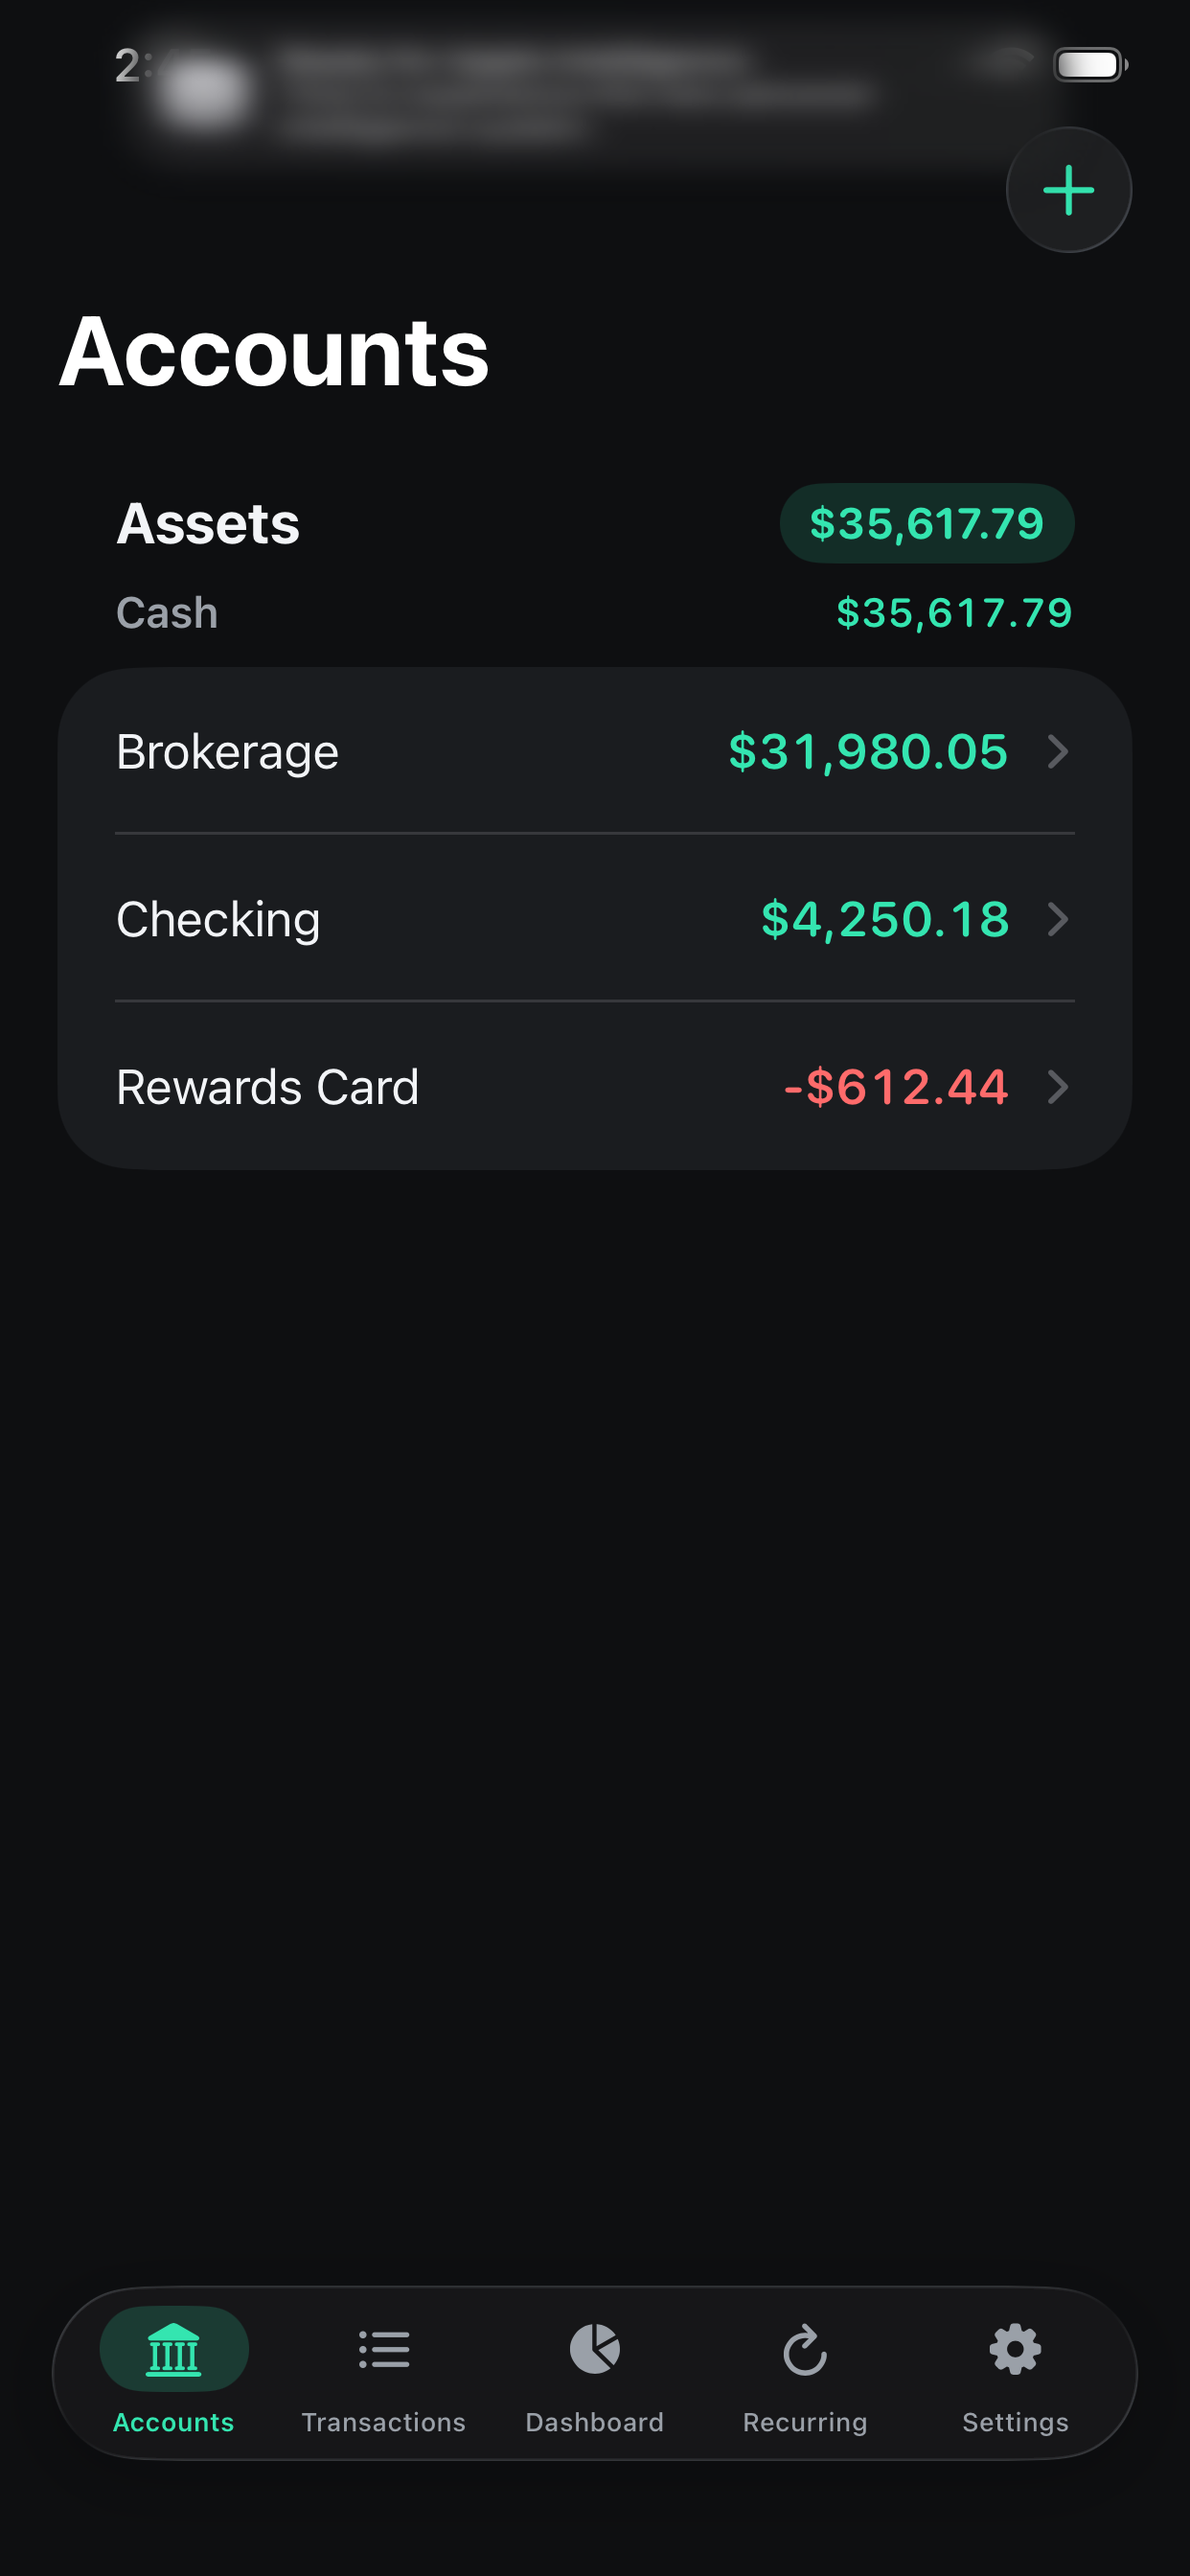
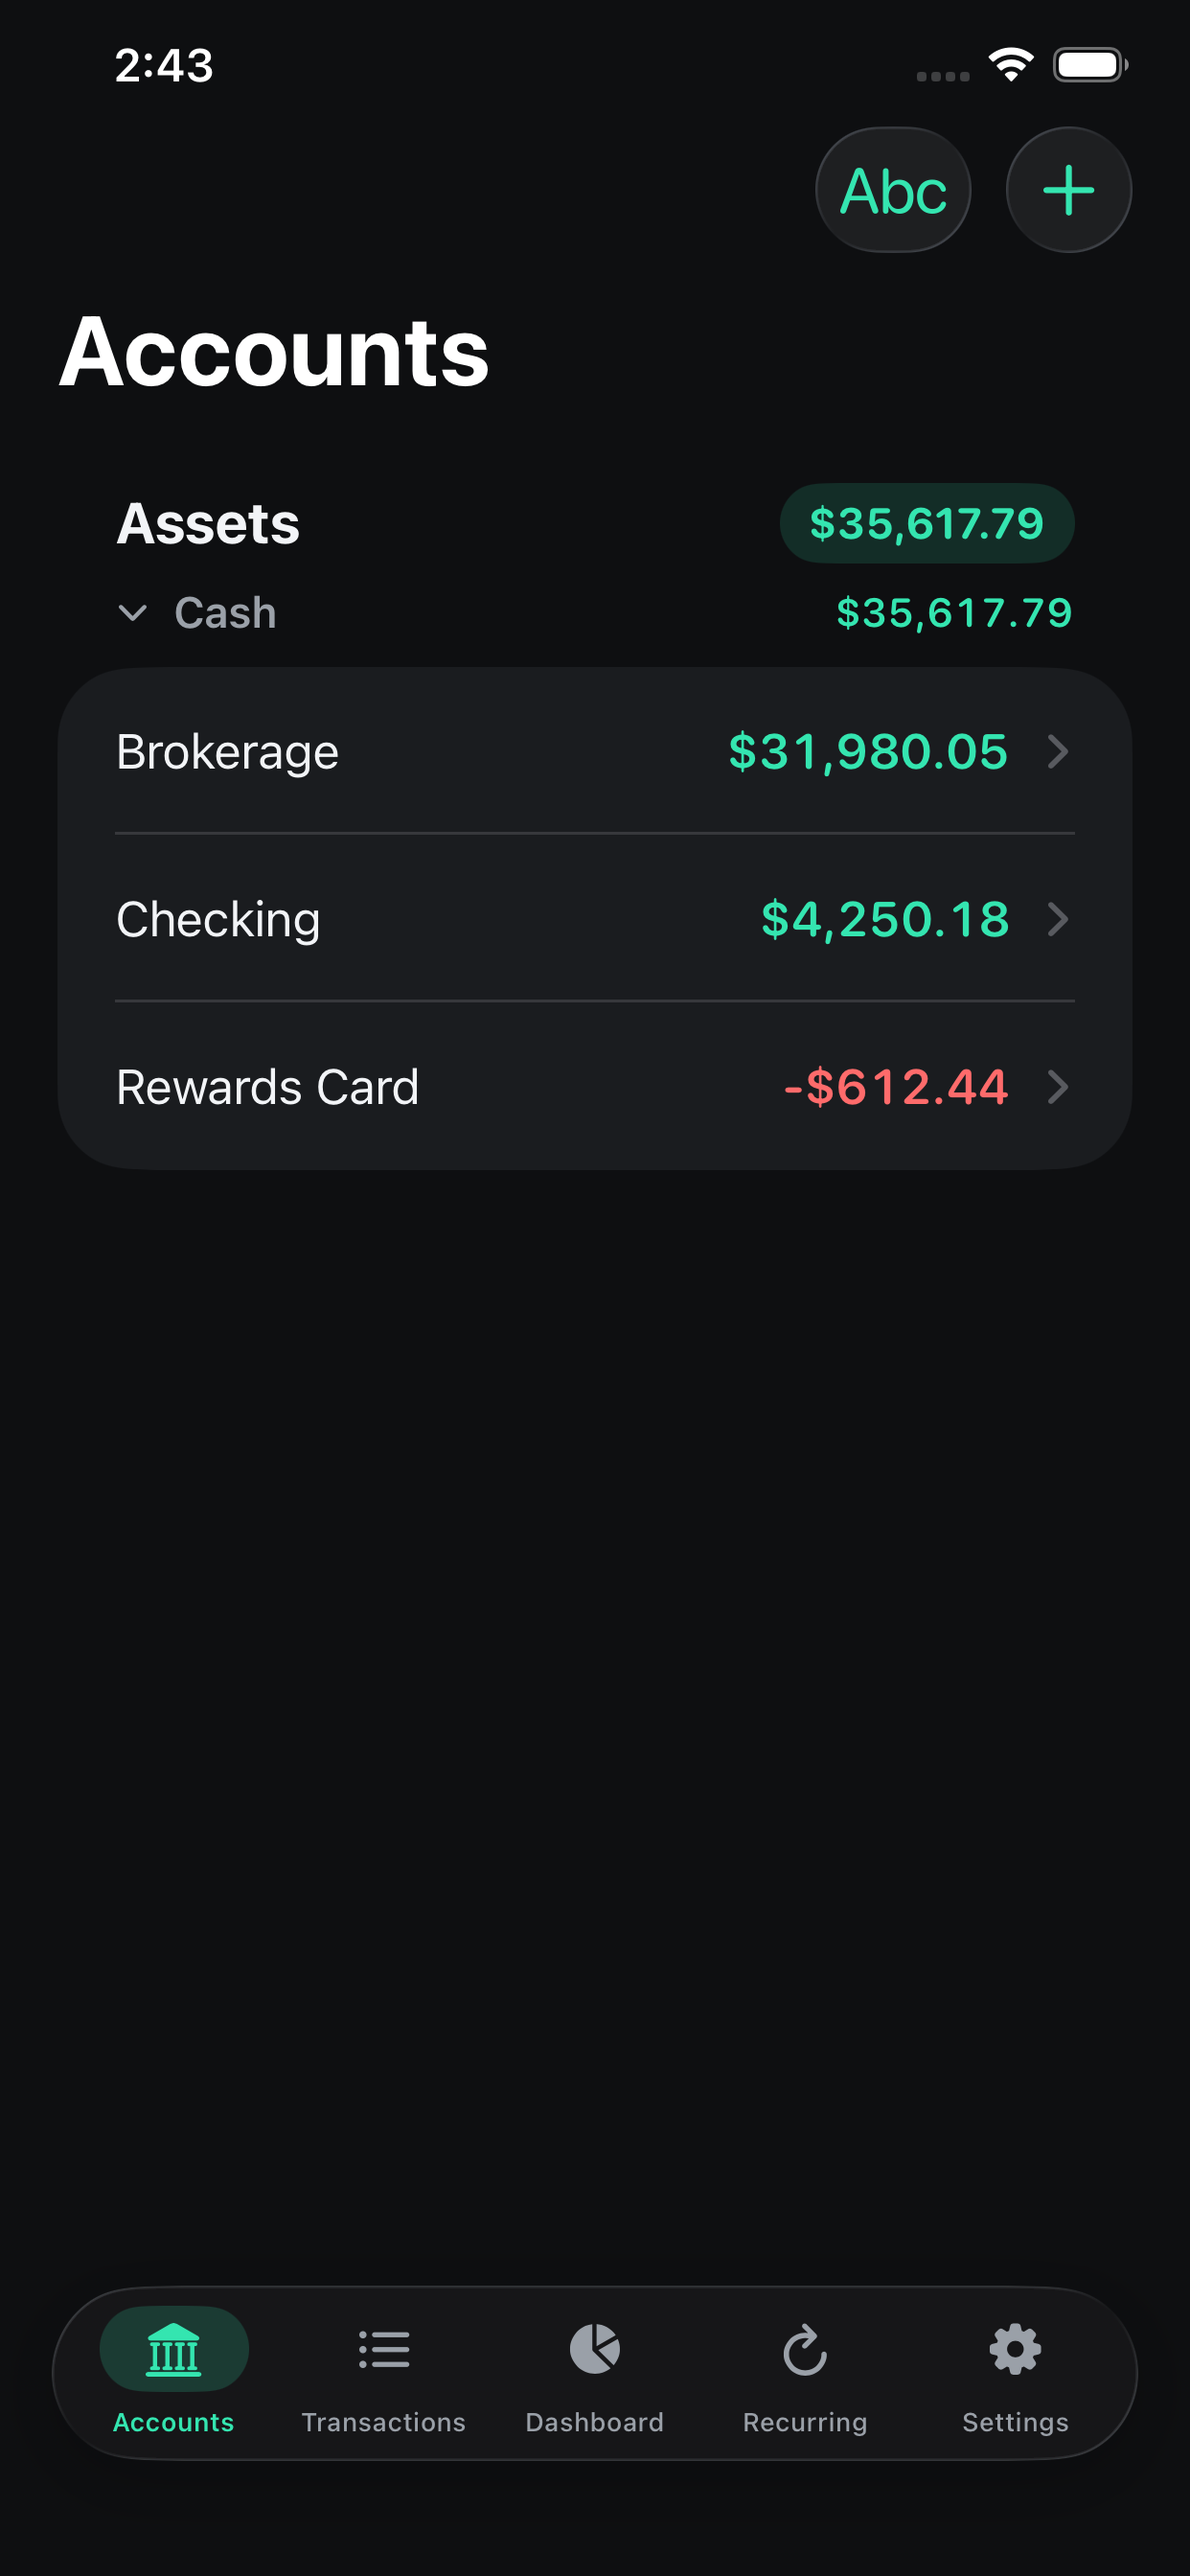
feat(ui): collapsible account groups, sort toggle, calendar day restyle
- Accounts: type groups (Cash, Investments, ...) collapse/expand via
  header tap with rotating chevron; subtotal stays visible collapsed.
- Accounts: toolbar toggle sorts accounts alphabetically or by amount
  (highest first), persisted via AppStorage; own glass pill on iOS 26.
- Recurring: selected day uses soft brand fill (matches Dashboard Auto
  chip); today keeps its ring, visible even when selected.
- Refresh App Store screenshots (dark + light).

Changed region(s): [[0.0918, 0.0, 0.7955, 0.0938], [0.0918, 0.2188, 0.2448, 0.25], [0.7955, 0.0, 0.9179, 0.0312]]

diff --git a/Sources/FinApp/Features/Accounts/AccountsView.swift b/Sources/FinApp/Features/Accounts/AccountsView.swift
@@ -8,6 +8,10 @@ struct AccountsView: View {
     @State private var path = NavigationPath()
     /// Bumped on tab arrival to rebuild the List at the very top.
     @State private var topReset = 0
+    /// Type groups the user has collapsed; empty = all expanded (default).
+    @State private var collapsedTypes: Set<AccountType> = []
+    /// Sort accounts within each type group by amount (highest first) instead of name.
+    @AppStorage("accountsSortByAmount") private var sortByAmount = false
 
     /// Accounts of one type, kept together as a subsection.
     private struct TypeGroup: Identifiable {
@@ -21,7 +25,9 @@ struct AccountsView: View {
         Dictionary(grouping: accounts.filter { $0.accountType.isDebt == debt }, by: \.accountType)
             .map { type, accts in
                 TypeGroup(type: type, accounts: accts.sorted {
-                    $0.displayName.localizedCaseInsensitiveCompare($1.displayName) == .orderedAscending
+                    sortByAmount
+                        ? $0.balance > $1.balance
+                        : $0.displayName.localizedCaseInsensitiveCompare($1.displayName) == .orderedAscending
                 })
             }
             .sorted { $0.type.sortIndex < $1.type.sortIndex }
@@ -63,6 +69,18 @@ struct AccountsView: View {
             .navigationDestination(for: Transaction.self) { TransactionDetailView(transaction: $0) }
             .toolbar {
                 ToolbarItem(placement: .topBarTrailing) {
+                    Button { sortByAmount.toggle() } label: {
+                        Image(systemName: sortByAmount ? "arrow.down.circle" : "textformat.abc")
+                    }
+                    .accessibilityLabel(sortByAmount ? "Sorted by amount" : "Sorted alphabetically")
+                    .accessibilityIdentifier("accountSortToggle")
+                }
+                if #available(iOS 26.0, *) {
+                    // Split the sort toggle into its own glass pill instead of
+                    // sharing one capsule with the + button.
+                    ToolbarSpacer(.fixed, placement: .topBarTrailing)
+                }
+                ToolbarItem(placement: .topBarTrailing) {
                     Button { showingAdd = true } label: { Image(systemName: "plus") }
                         .accessibilityLabel("Add account")
                         .accessibilityIdentifier("addAccountButton")
@@ -83,12 +101,14 @@ struct AccountsView: View {
 
     private func typeSection(_ group: TypeGroup, groupTitle: String, groupTotal: Decimal, showEyebrow: Bool) -> some View {
         Section {
-            ForEach(group.accounts) { account in
-                NavigationLink(value: account) {
-                    row(account)
+            if !collapsedTypes.contains(group.type) {
+                ForEach(group.accounts) { account in
+                    NavigationLink(value: account) {
+                        row(account)
+                    }
+                    .listRowBackground(Color.surface)
+                    .accessibilityIdentifier("accountRow-\(account.id)")
                 }
-                .listRowBackground(Color.surface)
-                .accessibilityIdentifier("accountRow-\(account.id)")
             }
         } header: {
             VStack(alignment: .leading, spacing: 8) {
@@ -108,6 +128,10 @@ struct AccountsView: View {
                     .padding(.top, 8)
                 }
                 HStack {
+                    Image(systemName: "chevron.down")
+                        .font(.caption2.weight(.semibold))
+                        .foregroundStyle(Color.textSecondary)
+                        .rotationEffect(.degrees(collapsedTypes.contains(group.type) ? -90 : 0))
                     Text(group.type.displayName)
                         .font(.subheadline.weight(.semibold))
                         .foregroundStyle(Color.textSecondary)
@@ -115,6 +139,17 @@ struct AccountsView: View {
                     MoneyText(value: group.subtotal, size: 14, weight: .semibold,
                               color: balanceColor(group.subtotal))
                 }
+                .contentShape(Rectangle())
+                .onTapGesture {
+                    withAnimation {
+                        if collapsedTypes.contains(group.type) {
+                            collapsedTypes.remove(group.type)
+                        } else {
+                            collapsedTypes.insert(group.type)
+                        }
+                    }
+                }
+                .accessibilityIdentifier("accountGroupHeader-\(group.type.rawValue)")
             }
             .textCase(nil)
         }

diff --git a/Sources/FinApp/Features/Recurring/RecurringView.swift b/Sources/FinApp/Features/Recurring/RecurringView.swift
@@ -254,12 +254,13 @@ private struct CalendarMonthCard: View {
                 Text("\(day)")
                     .font(.system(.footnote, design: .rounded,
                                   weight: isSelected || isToday ? .bold : .regular))
-                    .foregroundStyle(isSelected ? Color.appBackground : Color.textPrimary)
+                    .foregroundStyle(isSelected ? .white : Color.textPrimary)
                     .frame(width: 28, height: 28)
                     .background {
                         if isSelected {
-                            Circle().fill(Color.brand)
-                        } else if isToday {
+                            Circle().fill(Color.brand.opacity(0.7))
+                        }
+                        if isToday {
                             Circle().strokeBorder(Color.brand, lineWidth: 1.5)
                         }
                     }
